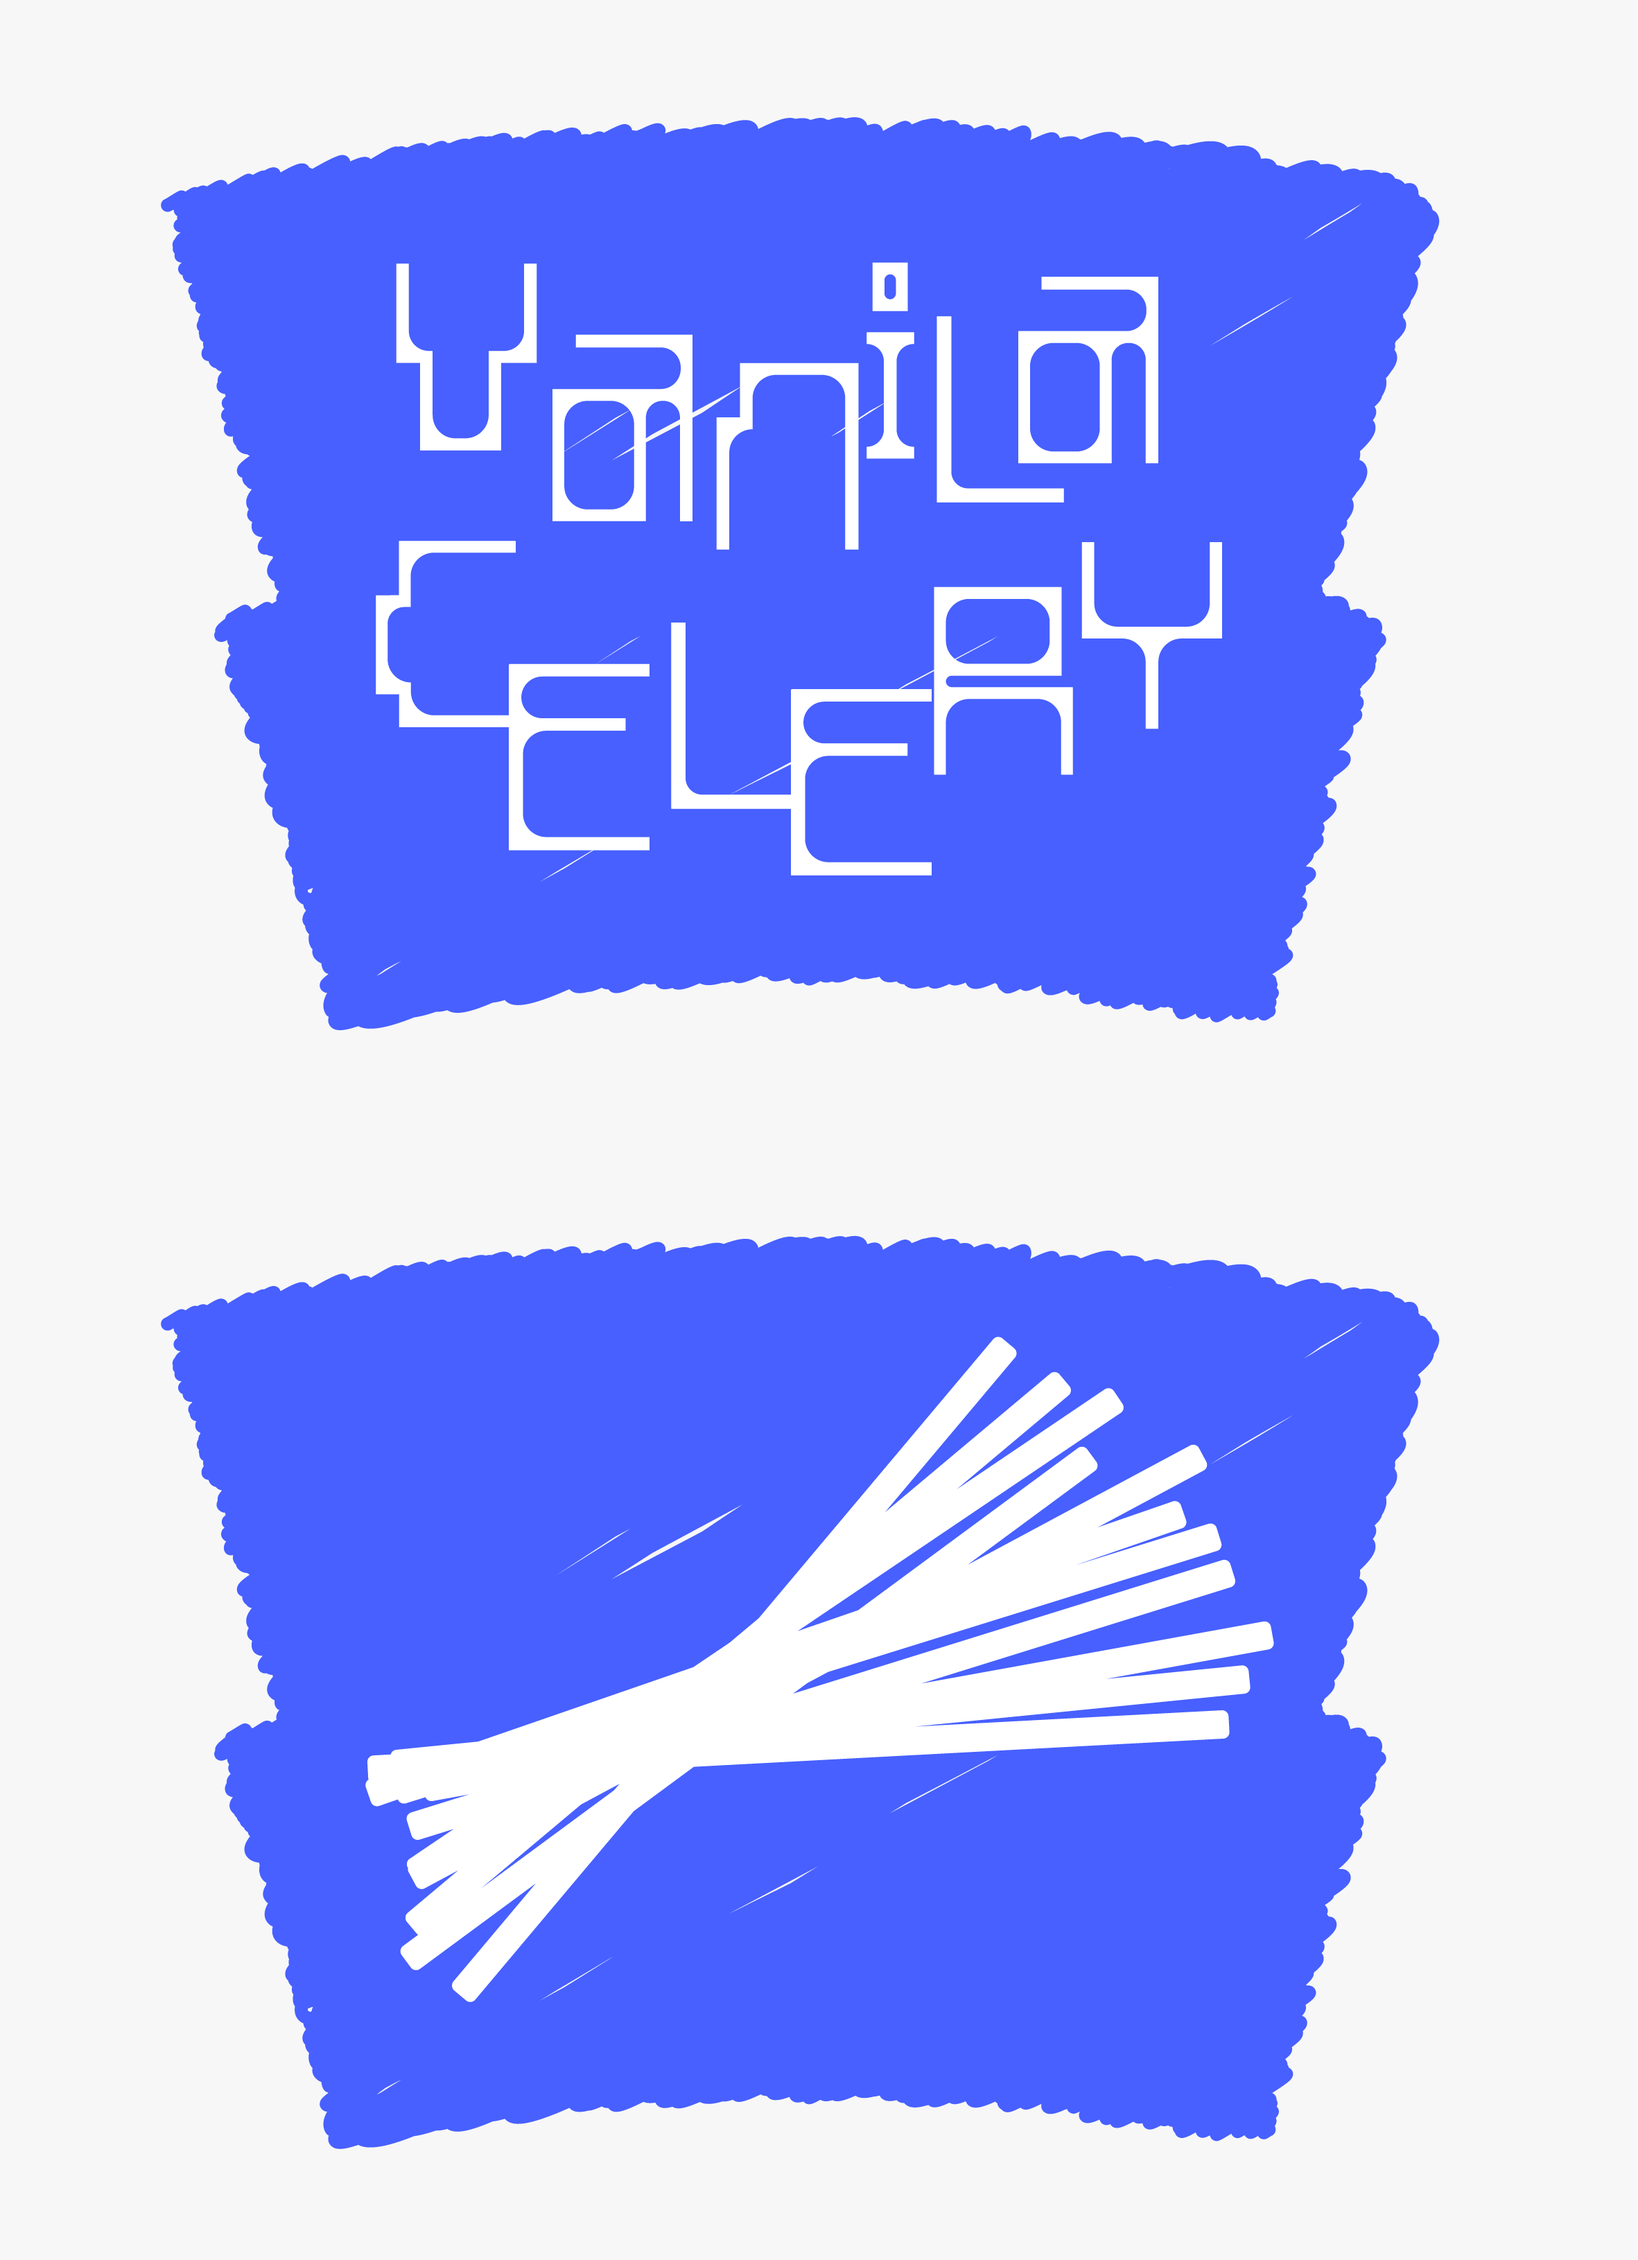
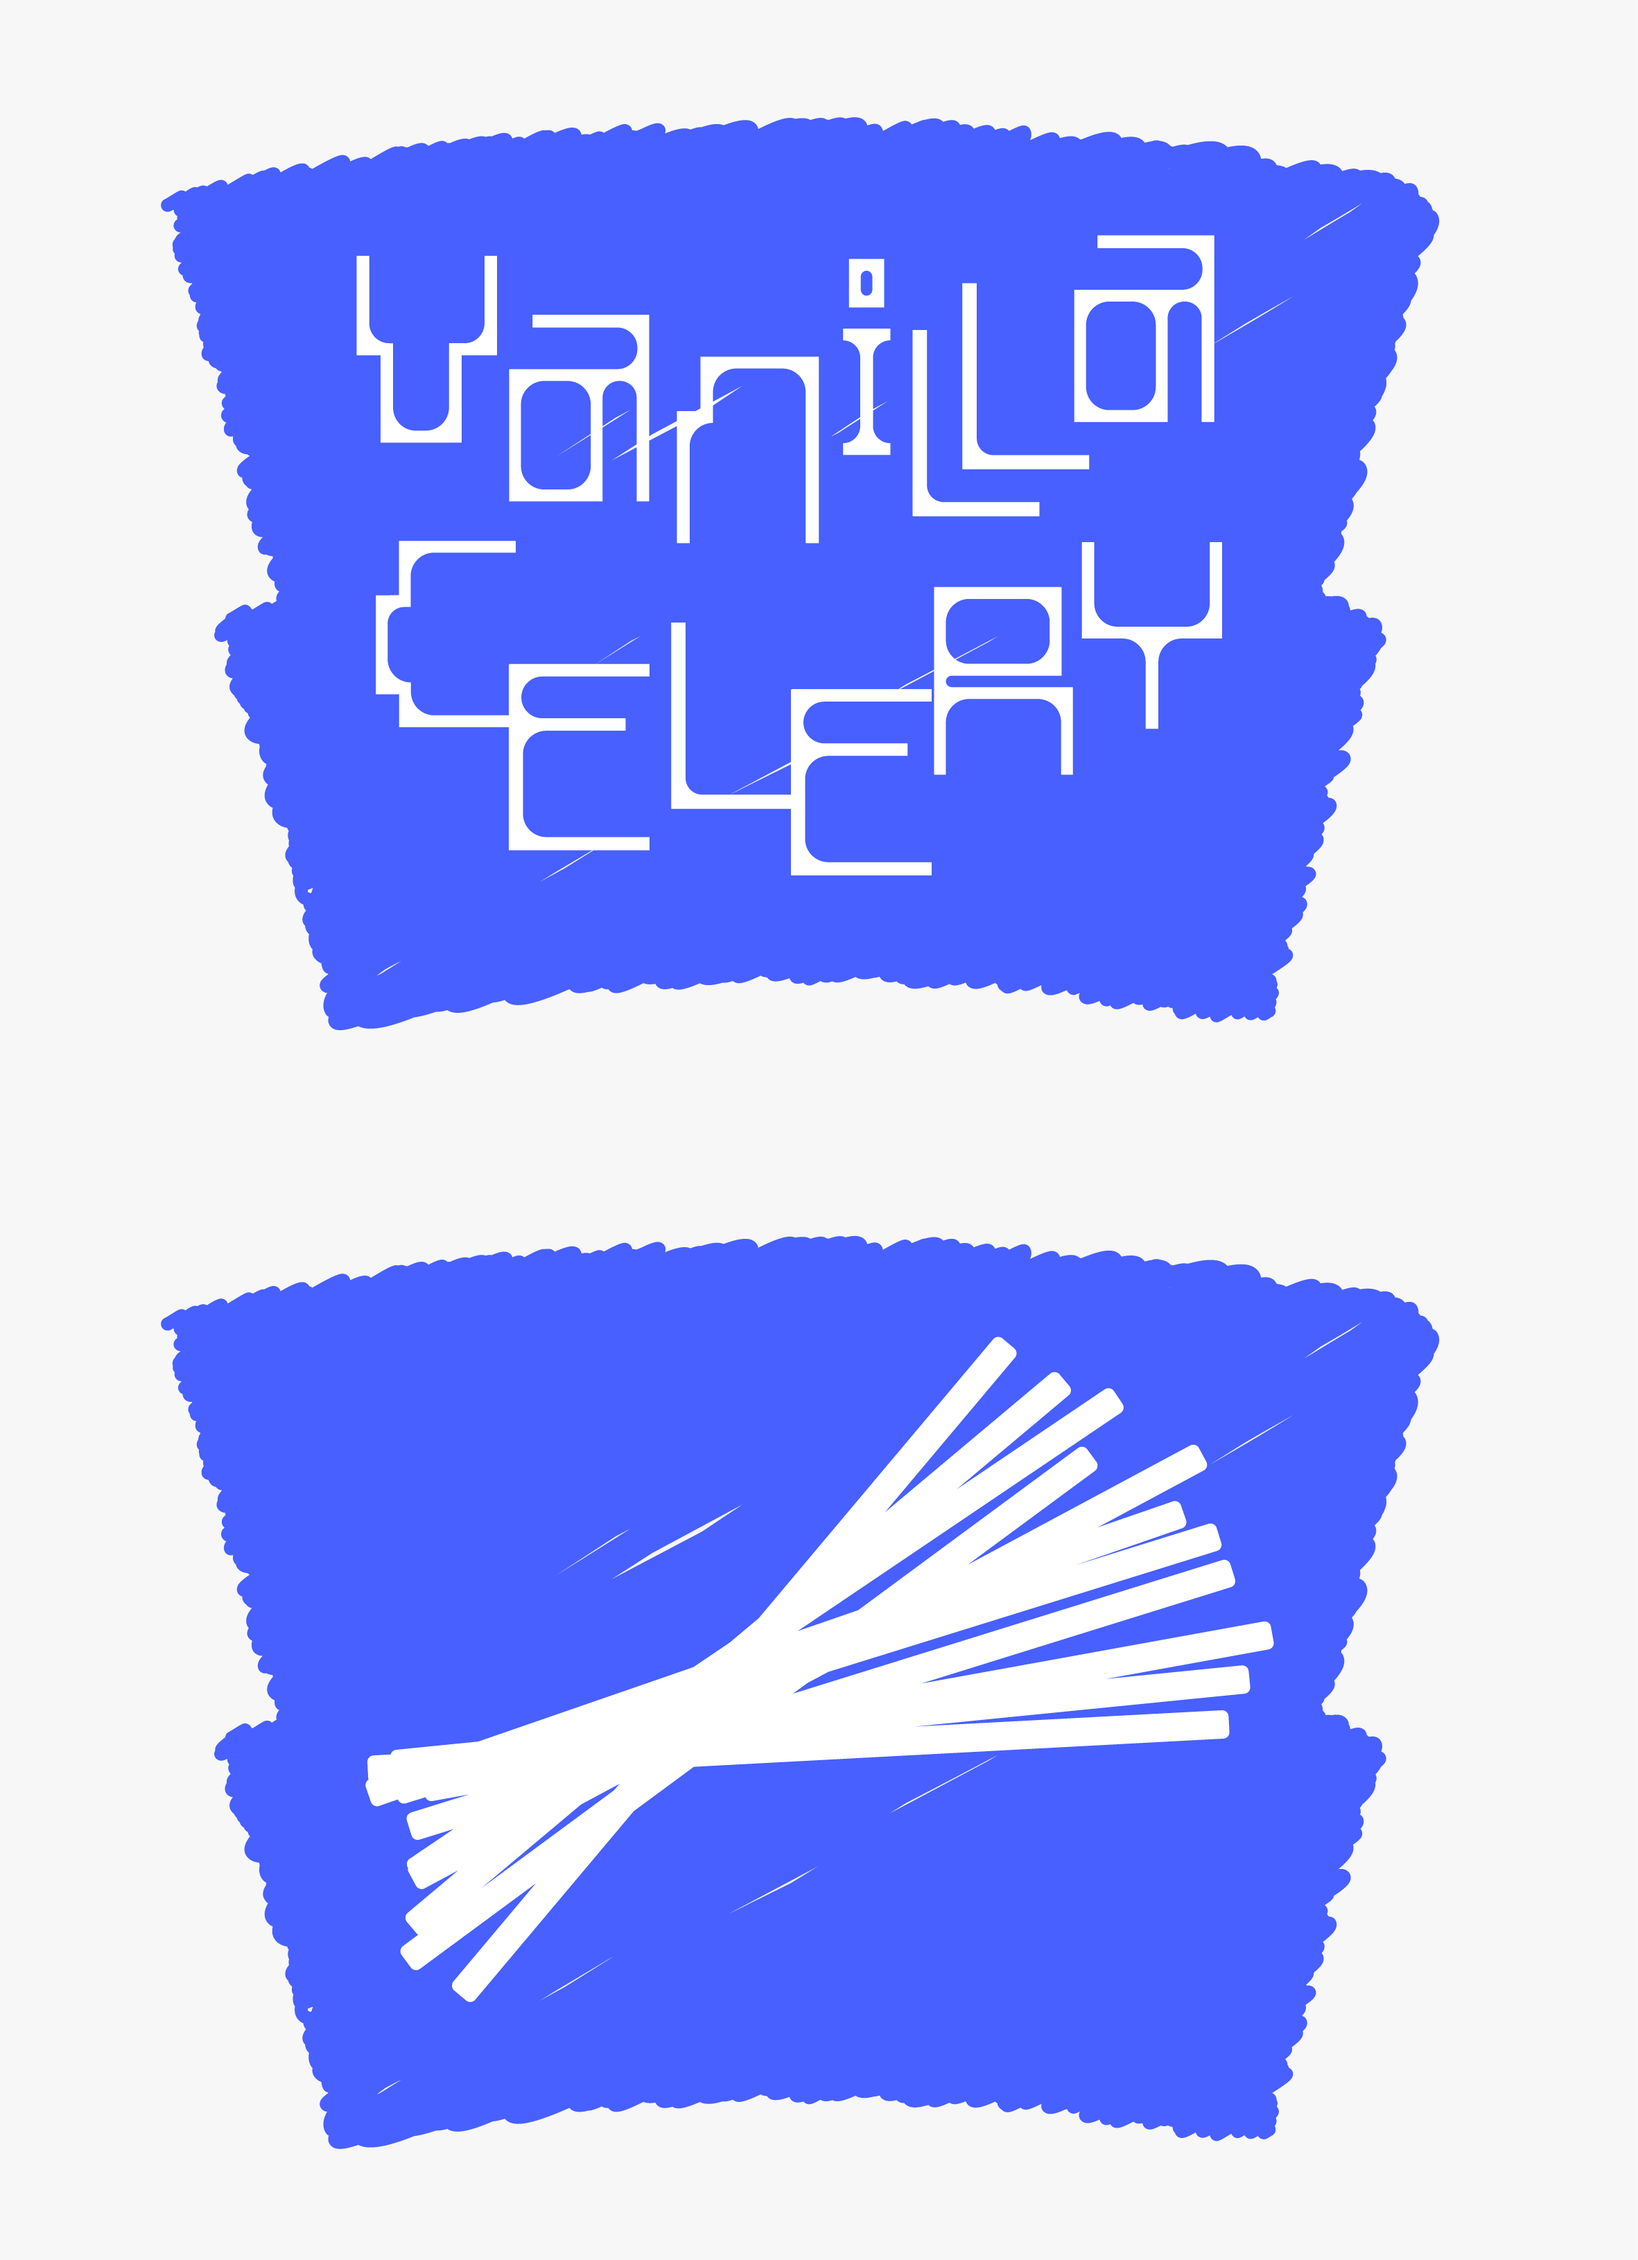
Book Size

Changed region(s): [[0.2163, 0.0929, 0.7414, 0.2479]]

diff --git a/book.js b/book.js
@@ -3,7 +3,7 @@
 const section = document.querySelector("section.book");
 
 const scene = new THREE.Scene();
-const camera = new THREE.PerspectiveCamera(28, window.innerWidth / window.innerHeight, 0.9, 1000);
+const camera = new THREE.PerspectiveCamera(40, window.innerWidth / window.innerHeight, 0.9, 1000);
 
 const renderer = new THREE.WebGLRenderer({
   alpha: true
@@ -44,7 +44,7 @@ scene.add(cube);
 // scene.add(cube1);
 
 camera.position.z = 10;
-camera.position.y = -0.1;
+camera.position.y = 0.2;
 camera.position.x = 0;
 
 
